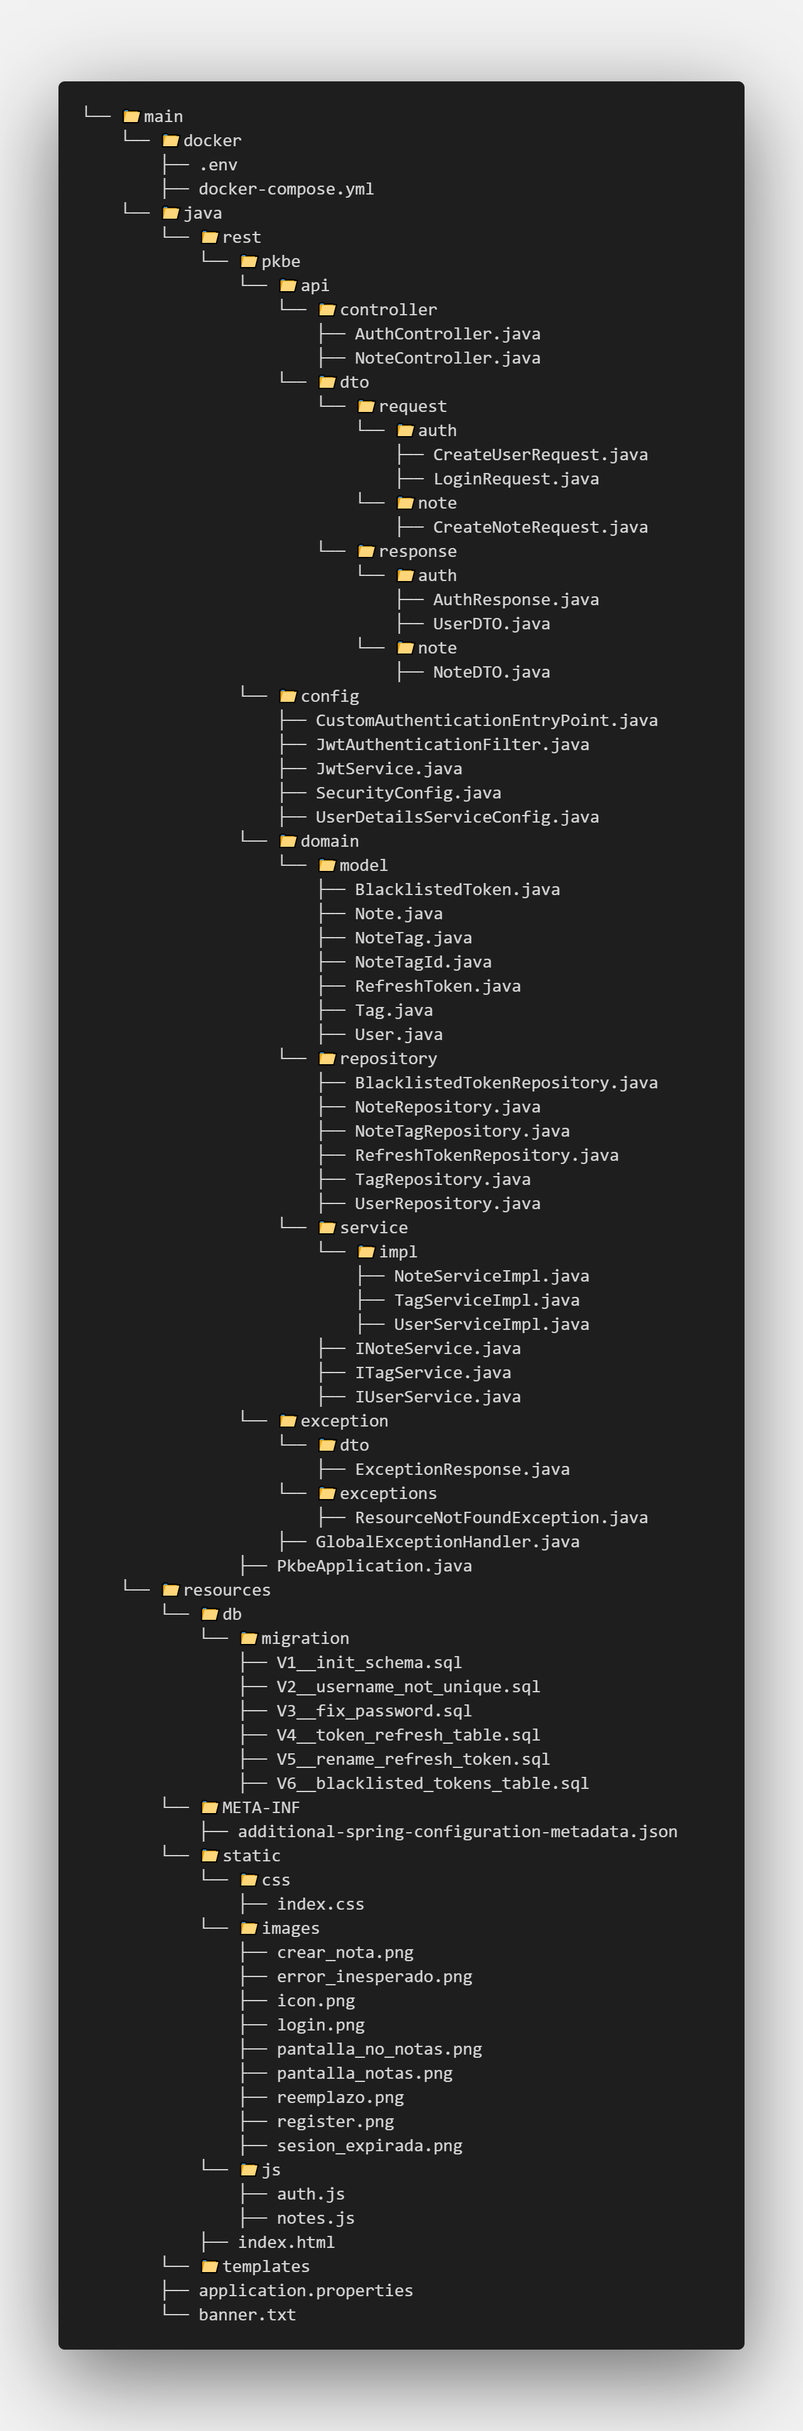
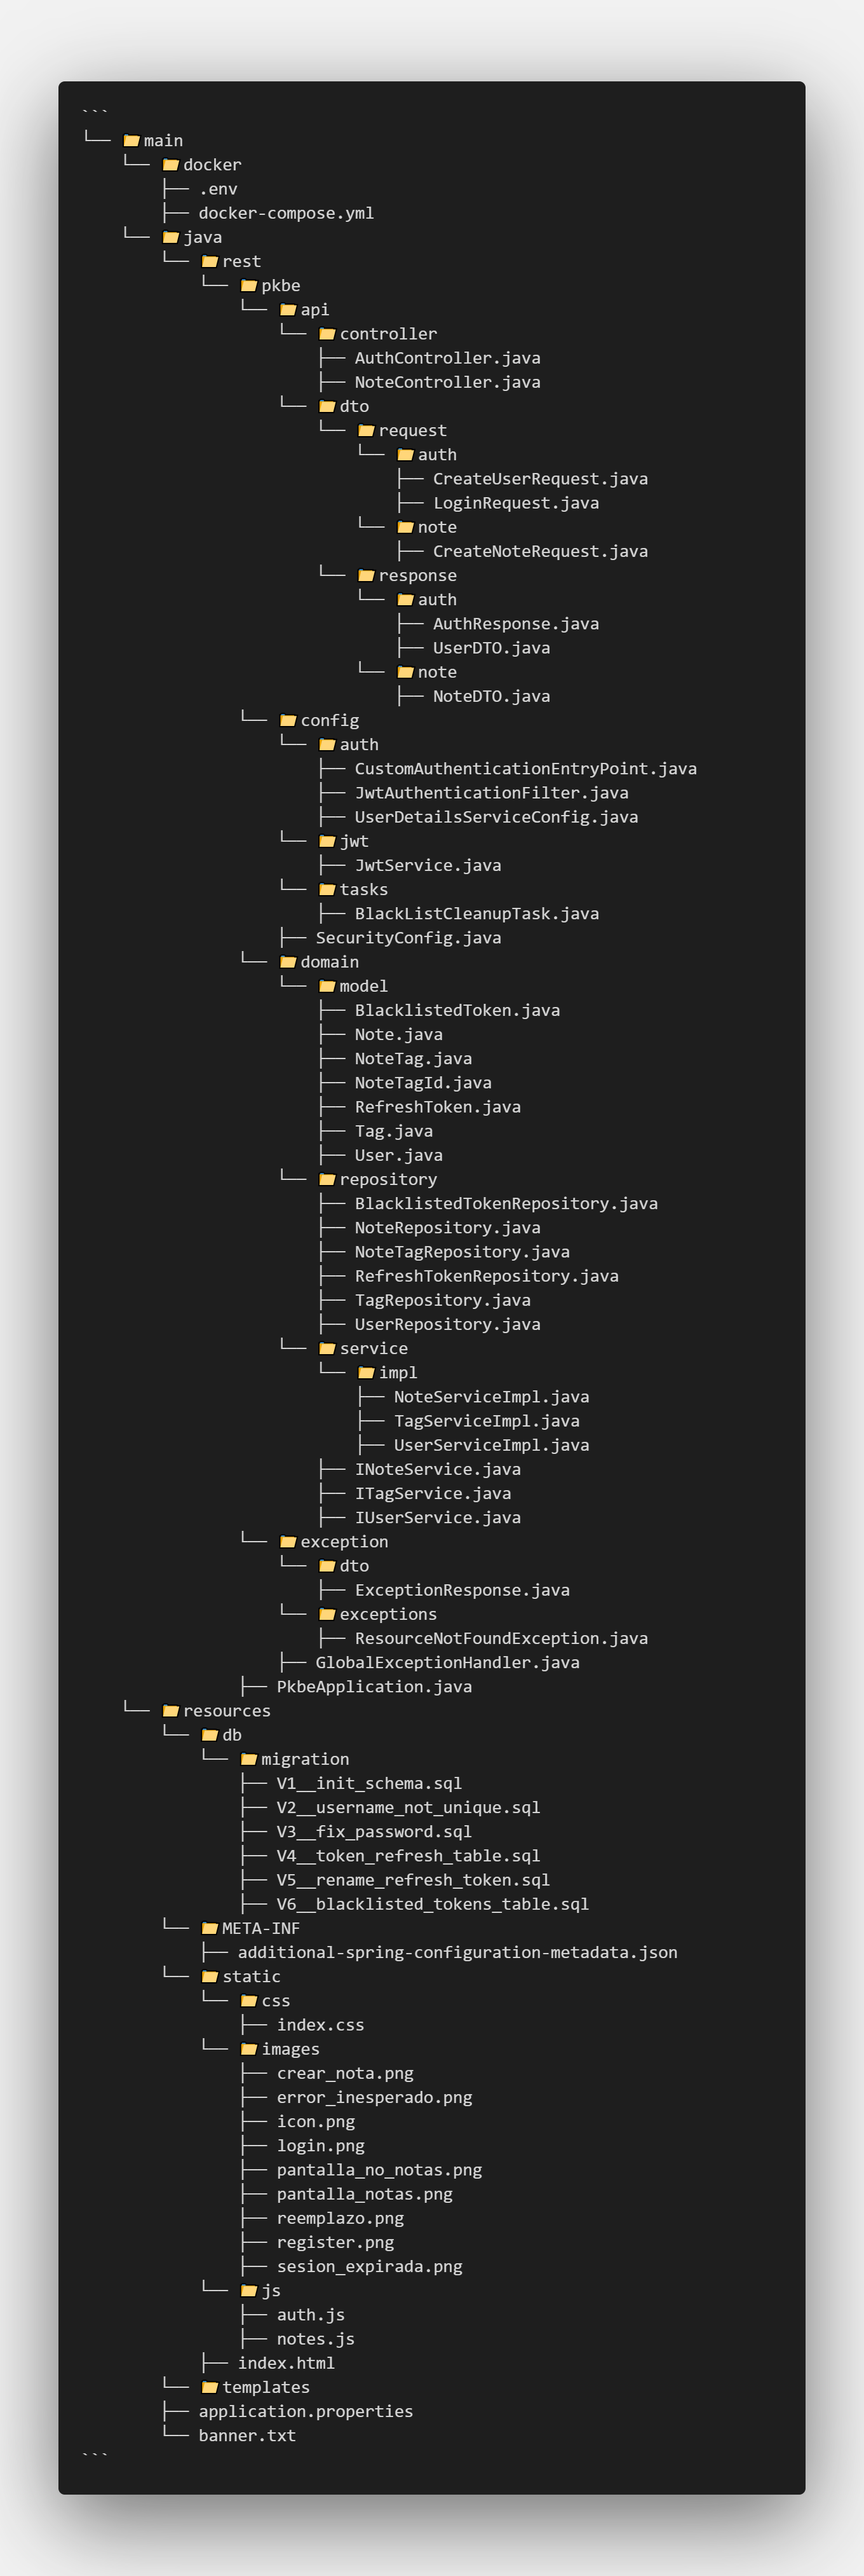
docs: Se ha agregado la estructura de carpetas del proyecto como imagen al repo y al readme

diff --git a/src/main/java/rest/pkbe/domain/service/impl/UserServiceImpl.java b/src/main/java/rest/pkbe/domain/service/impl/UserServiceImpl.java
@@ -16,7 +16,7 @@ import org.springframework.security.core.userdetails.UsernameNotFoundException;
 import org.springframework.stereotype.Service;
 
 import jakarta.transaction.Transactional;
-import rest.pkbe.config.JwtService;
+import rest.pkbe.config.jwt.JwtService;
 import rest.pkbe.domain.model.BlacklistedToken;
 import rest.pkbe.domain.model.RefreshToken;
 import rest.pkbe.domain.model.User;
@@ -137,7 +137,7 @@ public class UserServiceImpl implements IUserService{
         /**
          * @param bearerToken: "Bearer adsfadf14141...."
          * - Primero revisamos que el token de refresco exista antes de borrarlo, si existe, lo borramos dado su id
-         * - A través del Bearer Token obtenemos el jti y exp del token para crear un objeto de Token Baneado y persistirlo
+         * - A través del Bearer Token obtenemos el jti y exp del token para crear un objeto de Token Baneado y persistirlos
          * - Por último, limpiamos el contexto de seguridad
          */
         logger.info("Cerrando la sesión...");

diff --git a/src/main/java/rest/pkbe/config/SecurityConfig.java b/src/main/java/rest/pkbe/config/SecurityConfig.java
@@ -23,6 +23,9 @@ import org.springframework.web.cors.CorsConfigurationSource;
 import org.springframework.web.cors.UrlBasedCorsConfigurationSource;
 
 import lombok.RequiredArgsConstructor;
+import rest.pkbe.config.auth.CustomAuthenticationEntryPoint;
+import rest.pkbe.config.auth.JwtAuthenticationFilter;
+import rest.pkbe.config.auth.UserDetailsServiceConfig;
 /**
  * Configuración principal de seguridad para la aplicación.
  * Define la política de autenticación, autorización, manejo de sesiones y filtros de seguridad.

diff --git a/src/main/java/rest/pkbe/config/auth/JwtAuthenticationFilter.java b/src/main/java/rest/pkbe/config/auth/JwtAuthenticationFilter.java
@@ -1,4 +1,4 @@
-package rest.pkbe.config;
+package rest.pkbe.config.auth;
 
 import java.io.IOException;
 
@@ -20,6 +20,7 @@ import jakarta.servlet.FilterChain;
 import jakarta.servlet.ServletException;
 import jakarta.servlet.http.HttpServletRequest;
 import jakarta.servlet.http.HttpServletResponse;
+import rest.pkbe.config.jwt.JwtService;
 // import lombok.RequiredArgsConstructor;
 import rest.pkbe.domain.repository.BlacklistedTokenRepository;
 

diff --git a/src/main/java/rest/pkbe/config/auth/UserDetailsServiceConfig.java b/src/main/java/rest/pkbe/config/auth/UserDetailsServiceConfig.java
@@ -1,4 +1,4 @@
-package rest.pkbe.config;
+package rest.pkbe.config.auth;
 
 import org.slf4j.Logger;
 import org.slf4j.LoggerFactory;

diff --git a/src/main/java/rest/pkbe/config/jwt/JwtService.java b/src/main/java/rest/pkbe/config/jwt/JwtService.java
@@ -1,4 +1,4 @@
-package rest.pkbe.config;
+package rest.pkbe.config.jwt;
 
 import java.util.Date;
 import java.util.UUID;

diff --git a/src/main/java/rest/pkbe/config/auth/CustomAuthenticationEntryPoint.java b/src/main/java/rest/pkbe/config/auth/CustomAuthenticationEntryPoint.java
@@ -1,4 +1,4 @@
-package rest.pkbe.config;
+package rest.pkbe.config.auth;
 
 import java.io.IOException;
 

diff --git a/project-structure.md b/project-structure.md
@@ -24,11 +24,15 @@
                             └── 📁note
                                 ├── NoteDTO.java
                 └── 📁config
-                    ├── CustomAuthenticationEntryPoint.java
-                    ├── JwtAuthenticationFilter.java
-                    ├── JwtService.java
+                    └── 📁auth
+                        ├── CustomAuthenticationEntryPoint.java
+                        ├── JwtAuthenticationFilter.java
+                        ├── UserDetailsServiceConfig.java
+                    └── 📁jwt
+                        ├── JwtService.java
+                    └── 📁tasks
+                        ├── BlackListCleanupTask.java
                     ├── SecurityConfig.java
-                    ├── UserDetailsServiceConfig.java
                 └── 📁domain
                     └── 📁model
                         ├── BlacklistedToken.java
